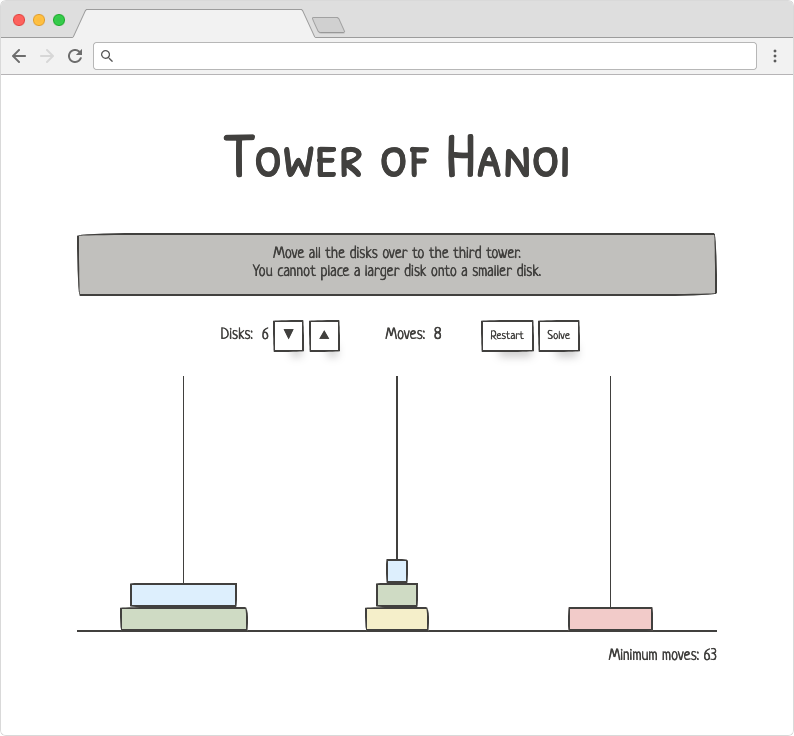
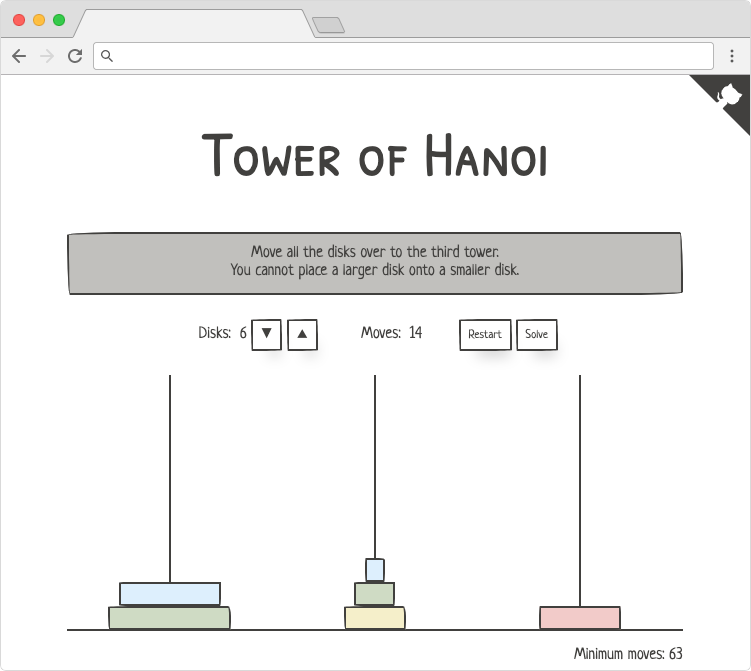
WIP

diff --git a/projects/tower-of-hanoi/public/index.html b/projects/tower-of-hanoi/public/index.html
@@ -22,7 +22,7 @@
 
 <body>
   <!-- Taken from https://github.com/tholman/github-corners -->
-  <a href="https://github.com/vanillaSlice/tower-of-hanoi" class="github-corner" aria-label="View source on GitHub">
+  <a href="https://github.com/vanillaSlice/the-mono/tree/main/projects/tower-of-hanoi" class="github-corner" aria-label="View source on GitHub">
     <svg width="80" height="80" viewBox="0 0 250 250" style="fill:#41403e; color:#fff; position: absolute; top: 0; border: 0; right: 0;" aria-hidden="true">
       <path d="M0,0 L115,115 L130,115 L142,142 L250,250 L250,0 Z"></path>
       <path d="M128.3,109.0 C113.8,99.7 119.0,89.6 119.0,89.6 C122.0,82.7 120.5,78.6 120.5,78.6 C119.2,72.0 123.4,76.3 123.4,76.3 C127.3,80.9 125.5,87.3 125.5,87.3 C122.9,97.6 130.6,101.9 134.4,103.2" fill="currentColor" style="transform-origin: 130px 106px;" class="octo-arm"></path>

diff --git a/projects/tower-of-hanoi/README.md b/projects/tower-of-hanoi/README.md
@@ -9,7 +9,7 @@ A deployed version can be viewed [here](https://towerofhanoi.mikelowe.xyz/).
 
 ## Screenshot
 
-![Screenshot](/images/screenshot-2.png)
+![Screenshot](./images/screenshot-1.png)
 
 ## Background
 
